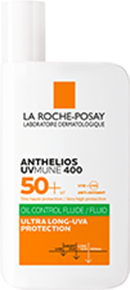
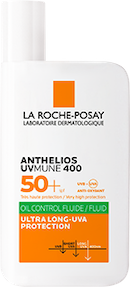
Change packshot and add disclaimers to kv section

diff --git a/src/index.html b/src/index.html
@@ -26,7 +26,8 @@
               przed najbardziej szkodliwymi promieniami&nbsp;uv
             </p>
             <p class="es-kv__subtitle">teraz równie <span>dla skóry tłustej i&nbsp;mieszanej</span></p>
-            <p class="es-kv__disclaimer"></p>
+            <p class="es-kv__disclaimer">Wysoki zakres ultradługich fal UVA [380-400nm]. <br>
+              * Badanie wśród dermatologów rekomendujących dermokosmetyki do ochrony przed słońcem. AplusA Healthcare Market Research Worldwide, I-V 2022.</p>
           </div>
           <div class="es-kv__packshot">
             <p class="es-kv__titlebg es-kv__titlebg--center">nowość</p>

diff --git a/src/sass/style.scss b/src/sass/style.scss
@@ -125,6 +125,14 @@ body {
         font-family: 500;
       }
     }
+    &__disclaimer {
+      @include text;
+      margin: 20px 0 20px auto;
+      color: #000;
+      font-family: $regular;
+      font-family: 100;
+      font-size: 5px;
+    }
     &__packshot {
       text-align: center;
     }
@@ -500,6 +508,9 @@ body {
       color: #fff !important;
     }
     &__subtitle {
+      color: #fff !important;
+    }
+    &__disclaimer {
       color: #fff !important;
     }
   }
